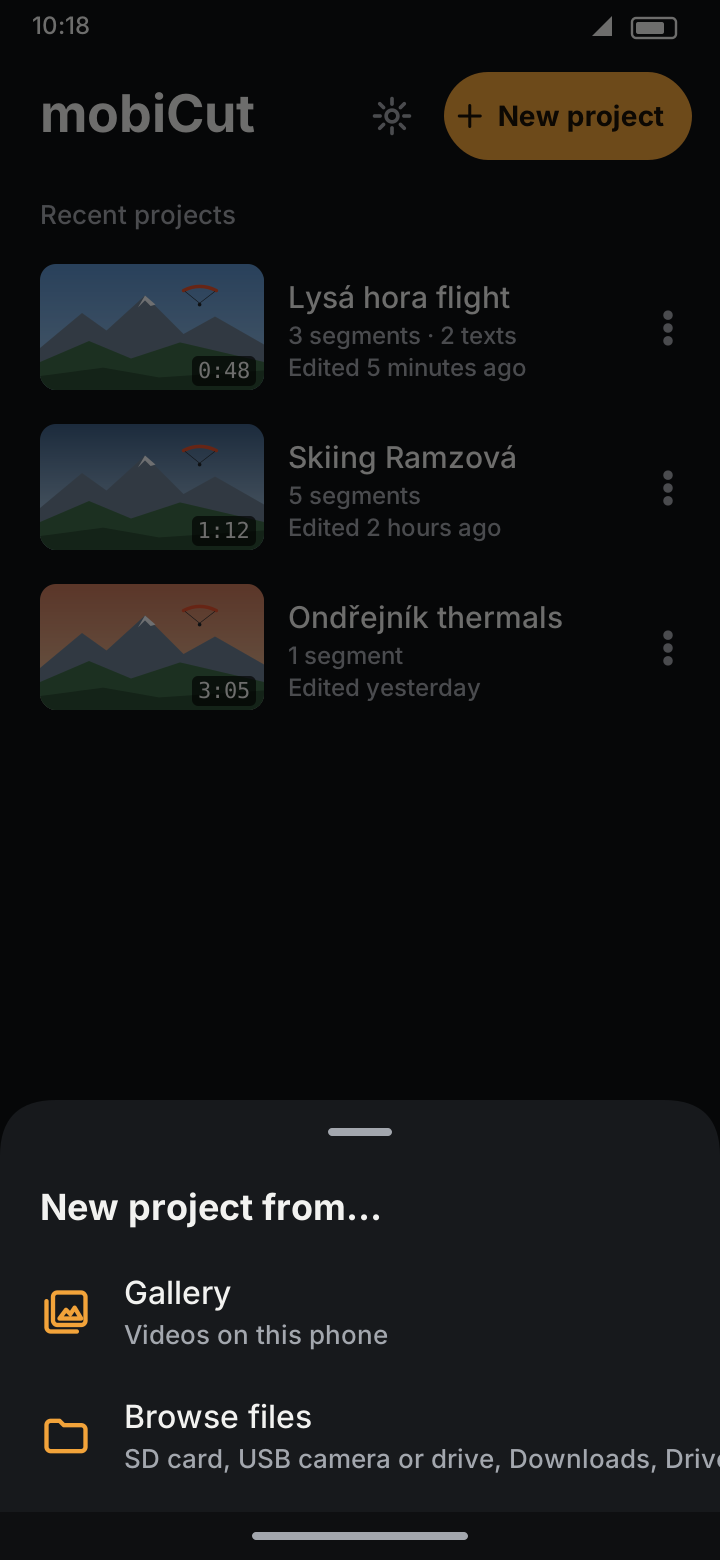
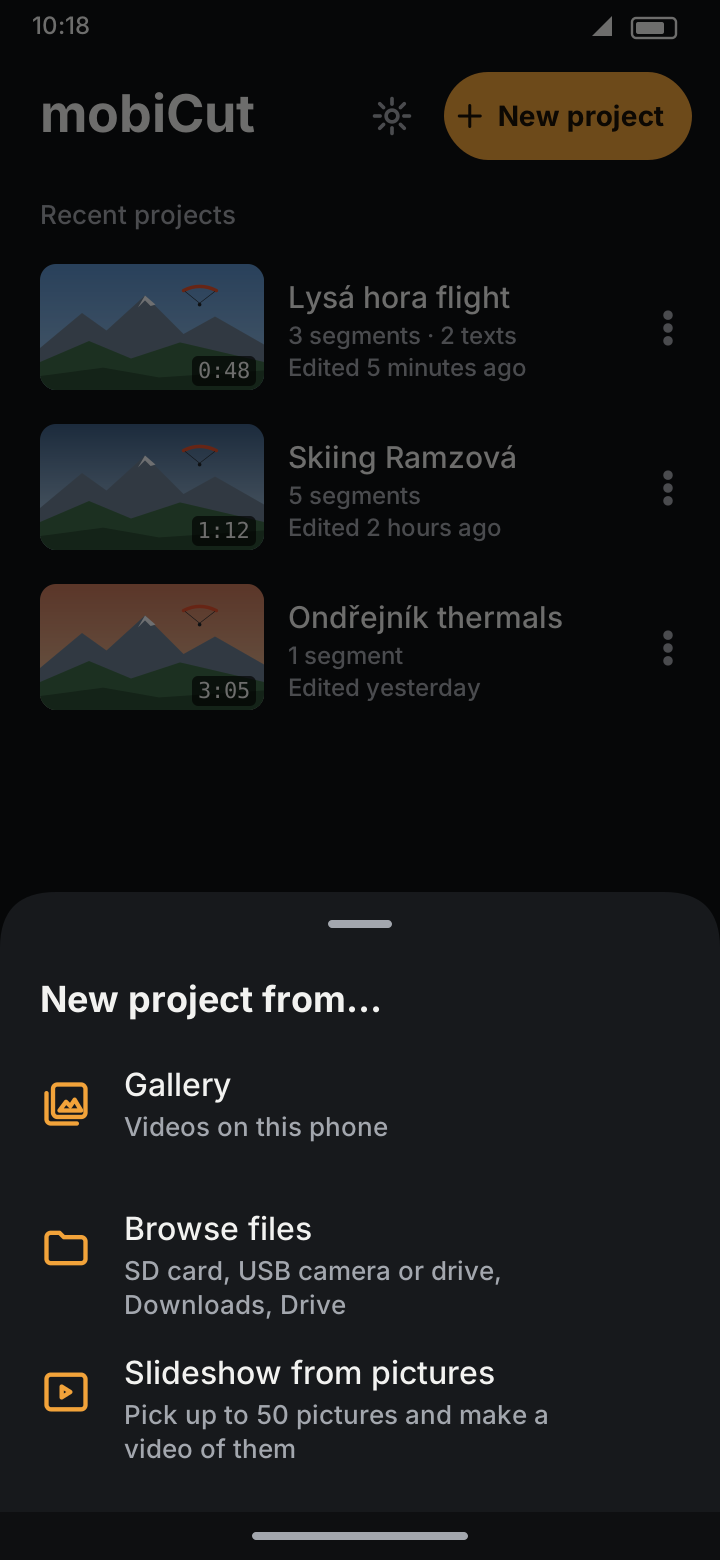
Docs for 2026-11-03.1: slideshow from pictures
New Slideshow page, New project sheet with its third choice, links from
Projects, Pictures and the home page.

Claude-Session: https://claude.ai/code/session_01GQZiBH5FMiU6jMX7fcmBnn

diff --git a/_tools/screens.py b/_tools/screens.py
@@ -59,6 +59,7 @@ def icon(name, x, y, size=22, color=TEXT):
         "more": f'<circle cx="12" cy="5" r="1.6" fill="{color}"/><circle cx="12" cy="12" r="1.6" fill="{color}"/><circle cx="12" cy="19" r="1.6" fill="{color}"/>',
         "movie": '<rect x="3" y="5" width="18" height="14" rx="2"/><path d="M7 5v14M17 5v14M3 9h4M3 15h4M17 9h4M17 15h4"/>',
         "gallery": '<rect x="6" y="3" width="15" height="15" rx="2"/><path d="M3 7v12a2 2 0 0 0 2 2h12"/><path d="m9 15 3-4 2 2 2-3 3 5z"/>',
+        "slideshow": '<rect x="3" y="4" width="18" height="16" rx="2"/><path d="M10 9.5v5l4-2.5z"/>',
         "folder": '<path d="M3 7a2 2 0 0 1 2-2h4l2 2h8a2 2 0 0 1 2 2v8a2 2 0 0 1-2 2H5a2 2 0 0 1-2-2z"/>',
         "eye_off": '<path d="M3 3l18 18"/><path d="M10.6 6.1A10 10 0 0 1 22 12a14 14 0 0 1-3 3.7M6.6 6.6A14 14 0 0 0 2 12s3.6 7 10 7a9.6 9.6 0 0 0 5.4-1.6"/>',
         "eye": '<path d="M2 12s3.6-7 10-7 10 7 10 7-3.6 7-10 7S2 12 2 12z"/><circle cx="12" cy="12" r="3"/>',
@@ -194,15 +195,18 @@ def home(projects=True, sheet=False, menu=False):
     s += nav_bar()
     if sheet:
         s += scrim()
-        top = H - 230
+        top = H - 334
         s += f'<path d="M0 {top+28} Q0 {top} 28 {top} H{W-28} Q{W} {top} {W} {top+28} V{H} H0Z" fill="{SURF}"/>'
         s += rect(W / 2 - 16, top + 14, 32, 4, MUTED, 2)
         s += t(20, top + 60, "New project from…", 18, TEXT, 600)
         for i, (ic, title, det) in enumerate([("gallery", "Gallery", "Videos on this phone"),
-                                              ("folder", "Browse files", "SD card, USB camera or drive, Downloads, Drive")]):
-            y = top + 82 + i * 62
+                                              ("folder", "Browse files", "SD card, USB camera or drive,|Downloads, Drive"),
+                                              ("slideshow", "Slideshow from pictures", "Pick up to 50 pictures and make a|video of them")]):
+            y = top + 82 + i * 72
             s += icon(ic, 33, y + 24, 26, ACCENT)
-            s += t(62, y + 20, title, 16) + t(62, y + 40, det, 13, MUTED)
+            s += t(62, y + 20, title, 16)
+            for k, line in enumerate(det.split("|")):
+                s += t(62, y + 40 + k * 17, line, 13, MUTED)
         s += nav_bar()
     return s
 
@@ -567,6 +571,28 @@ def picture_dialog():
         s += t(x, y + 392, "Transitions work as for any segment: use", 12, MUTED) + t(x, y + 408, "the buttons on the timeline.", 12, MUTED)
         return s
     return editor(segs=MEDIA_SEGS, speed_badge="", preview_shade=1) + dialog(560, "Add picture", body, [("Cancel", ACCENT), ("Insert", ACCENT)])
+
+
+def slideshow_dialog():
+    def body(x, y, w):
+        s = t(x, y + 6, "12 pictures", 14)
+        for i in range(5):
+            s += f'<svg x="{x + i * 52}" y="{y + 18}" width="48" height="48"><clipPath id="ss{i}"><rect width="48" height="48" rx="6"/></clipPath><g clip-path="url(#ss{i})">' + landscape(-12, 0, 72, 48, i % 3, f"ss{i}") + "</g></svg>"
+        s += t(x, y + 98, "Length of the video", 14) + t(x + w, y + 98, "1:00", 16, TEXT, 400, "end", True)
+        frac = (60 - 12) / (240 - 12)
+        s += rect(x, y + 114, w, 4, SURF, 2) + rect(x, y + 114, w * frac, 4, ACCENT, 2)
+        s += f'<circle cx="{x + w * frac}" cy="{y + 116}" r="9" fill="{ACCENT}"/>'
+        s += t(x, y + 142, "About 5.0 s per picture", 12, MUTED)
+        s += t(x, y + 174, "Shape", 13, MUTED) + chips(x, y + 184, ["Landscape", "Portrait", "Square"], selected=("Landscape",))
+        s += t(x, y + 240, "Resolution", 13, MUTED) + chips(x, y + 250, ["720p", "1080p", "4K"], selected=("1080p",))
+        s += t(x, y + 300, "1920×1080 · 30 fps", 12, MUTED)
+        s += t(x, y + 332, "Effect", 13, MUTED) + chips(x, y + 342, ["Still", "Zoom in", "Zoom out"], selected=("Zoom in",))
+        s += chips(x, y + 382, ["Slide in"])
+        s += t(x, y + 440, "Transitions between", 15) + t(x, y + 458, "pictures", 15)
+        s += t(x, y + 476, "Fade out-in, 2.0 s each,", 12, MUTED) + t(x, y + 491, "with fade in and out", 12, MUTED)
+        s += switch(x + w - 52, y + 440, True)
+        return s
+    return home() + dialog(650, "Slideshow", body, [("Cancel", ACCENT), ("Create", ACCENT)], width=330)
 
 
 def soundtrack_dialog():
@@ -1267,6 +1293,7 @@ SCREENS = {
                     + callout(1, 16 + 340 * 0.51, TL_TRACK_TOP - 16, ring=(16 + 340 * 0.36, TL_TRACK_TOP, 340 * 0.30, 84))
                     + callout(2, TOOL_X[3] + 26, TOOL_Y + 4, ring=tool_ring(3)),
     "picture-add": picture_dialog,
+    "slideshow": slideshow_dialog,
     "soundtrack": soundtrack_dialog,
     "segment-info-picture": segment_info_picture,
     "welcome": lambda: welcome() + callout(1, W / 2 - 134, 438, ring=(W / 2 - 122, 424, 244, 28)) + callout(2, W / 2 + 72, 520, ring=(W / 2 - 60, 496, 120, 48))

diff --git a/operations/slideshow.md b/operations/slideshow.md
@@ -1,0 +1,64 @@
+---
+title: Slideshow
+parent: Operations
+nav_order: 13.5
+---
+
+# Slideshow from pictures
+{: .no_toc }
+
+Turn a set of photos into a video in one go: the best shots of the day, a trip in pictures. Pick
+the photos, say how long the video should be, and mobiCut makes a new project where every photo is
+an ordinary [picture]({{ "/operations/pictures/" | relative_url }}) segment.
+
+1. TOC
+{:toc}
+
+---
+
+## Make a slideshow
+
+1. On the start screen tap **New project**, then **Slideshow from pictures**.
+2. Pick the pictures in the gallery, **up to 50**, in the order they should play.
+3. Set the options (below) and tap **Create**.
+
+{% include screen.html name="new-project" alt="The 'New project from…' sheet with Gallery, Browse files and Slideshow from pictures." %}
+
+The editor opens with one segment per picture, in the order you picked them. The project is
+called *Slideshow*; [rename it]({{ "/operations/projects/" | relative_url }}) as you like.
+
+{% include screen.html name="slideshow" alt="The Slideshow dialog: 12 pictures with their thumbnails, Length of the video 1:00 with a slider and 'About 5.0 s per picture', Shape chips Landscape, Portrait and Square, Resolution chips 720p, 1080p and 4K with 1920×1080 · 30 fps under them, Effect chips Still, Zoom in, Zoom out and Slide in, and the Transitions between pictures switch." %}
+
+## Options
+
+- **Length of the video**: drag the slider. It starts at 5 seconds per picture and goes from 1 to
+  20 seconds per picture; the line under it shows the time each picture gets. Every picture is shown
+  for the same time.
+- **Shape**: **Landscape** (16:9), **Portrait** (9:16) or **Square**. It starts on the shape of the
+  first picture. Pictures of another shape are fitted inside the frame.
+- **Resolution**: **720p**, **1080p** or **4K**, with the frame size in pixels under the chips. The
+  video is 30 fps. **4K is Pro**; Free exports up to 1080p.
+- **Effect**: the same movement for every picture: **Still**, **Zoom in**, **Zoom out** or
+  **Slide in** (see [Pictures]({{ "/operations/pictures/" | relative_url }})).
+- **Transitions between pictures**: puts a transition at every join and fades in at the start and
+  out at the end, with the type and length last used in
+  [Transitions at every join]({{ "/operations/transitions/" | relative_url }}).
+
+The dialog remembers the resolution, effect and transitions for next time.
+
+## After that
+
+A slideshow is a normal project. You can change any picture's duration or effect in its
+[Segment info]({{ "/operations/segment-info/" | relative_url }}), delete or add pictures, add
+[texts]({{ "/operations/subtitles/" | relative_url }}),
+[graphics]({{ "/operations/graphics/" | relative_url }}),
+[text slides]({{ "/operations/text-slides/" | relative_url }}),
+[music]({{ "/operations/soundtracks/" | relative_url }}) and even
+[videos]({{ "/operations/videos/" | relative_url }}). The frame keeps the shape and resolution
+chosen here, also when a video is added.
+
+{: .note }
+> A slideshow has no sound of its own. Add a [soundtrack]({{ "/operations/soundtracks/" | relative_url }})
+> for music; without one the exported video is silent.
+
+Slideshows are free in both editions (4K needs Pro).

diff --git a/operations/projects.md b/operations/projects.md
@@ -31,13 +31,15 @@ start screen lists them, newest first. (Before it, mobiCut briefly shows the
    - **Gallery**: videos on this phone.
    - **Browse files**: an SD card, a USB camera or drive, Downloads, Google Drive and other
      file providers. Use this for action cameras plugged in by USB.
+   - **Slideshow from pictures**: up to 50 photos made into a video; see
+     [Slideshow]({{ "/operations/slideshow/" | relative_url }}).
 3. Pick the video. The editor opens with the whole video as one segment.
 
 {: .note }
 > In the **Free** edition the source video can be **up to 1 hour** long. Longer videos need
 > [Pro]({{ "/editions/" | relative_url }}).
 
-{% include screen.html name="new-project" alt="The 'New project from…' sheet with Gallery and Browse files." %}
+{% include screen.html name="new-project" alt="The 'New project from…' sheet with Gallery, Browse files and Slideshow from pictures." %}
 
 {: .tip }
 You can also start from another app: in the gallery, **Share** a video and choose **MobiCut**.

diff --git a/operations/pictures.md b/operations/pictures.md
@@ -23,6 +23,10 @@ becomes a segment of its own, shown for as long as you choose, standing still or
 4. Set the **Duration** with **−** and **+** (0.5 s steps, from 0.5 s to 60 s; it starts at 3 s).
 5. Choose an **Effect** (see below), then tap **Insert**.
 
+{: .tip }
+Many photos and no video? Start a [slideshow]({{ "/operations/slideshow/" | relative_url }}) instead:
+all pictures go in at once.
+
 {% include screen.html name="picture-add" alt="The Add picture dialog: Gallery and Browse files buttons, the picked picture's name, Duration 3.0 s, and the effects Still, Slow zoom in (selected), Slow zoom out and Slide in." %}
 
 The video is split at the playhead and the picture goes in between; everything after it moves

diff --git a/index.md b/index.md
@@ -28,6 +28,7 @@ raw clip into a short video before you even get home:
 - **add texts** to say where and what it is, and **title cards** between the parts,
 - **join the parts with fades** so the cuts look intentional,
 - **put in photos** with a slow zoom or slide, and **music** under it all,
+- make a **slideshow** from up to 50 photos in one go, at the length and size you choose,
 - **mute** the wind noise, and **join several videos** into one,
 - put **arrows, smileys and shapes** on the video and make them **follow** a glider or skier,
 - **export** a new video to your gallery, ready to share.
